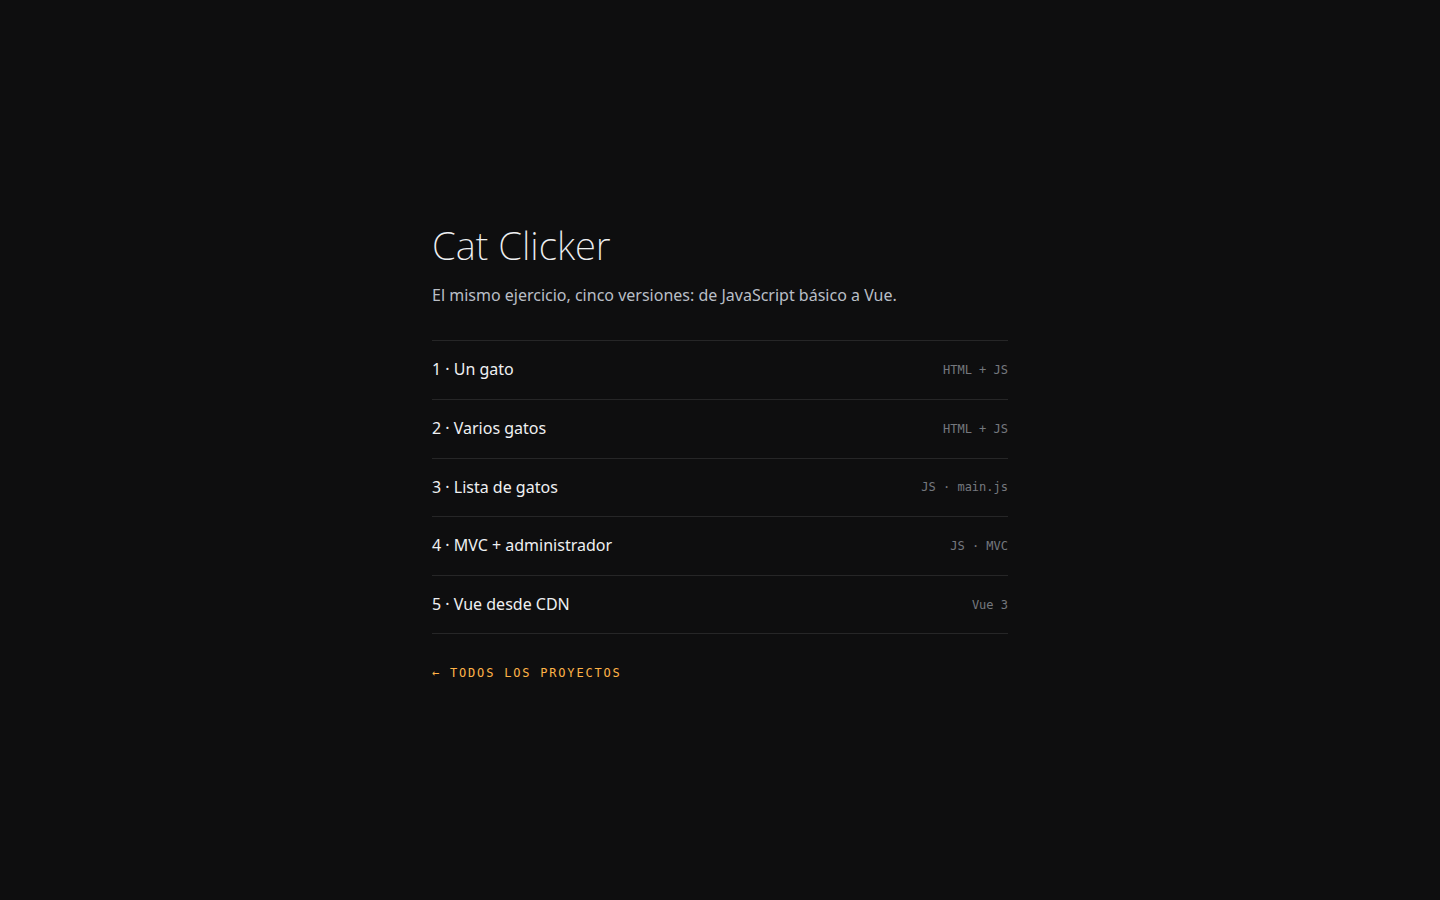
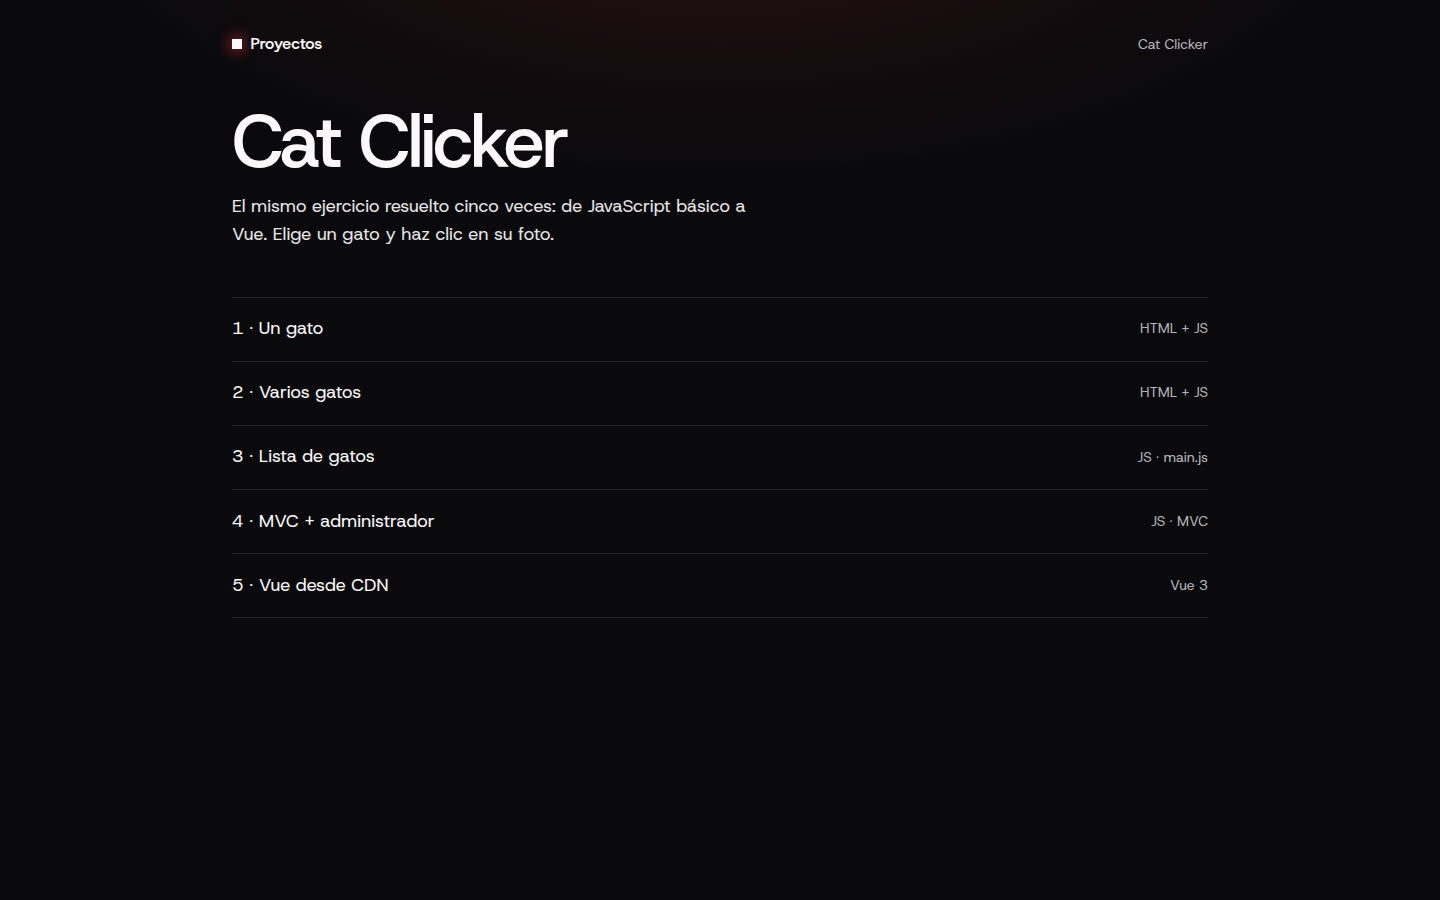
Índex del Cat Clicker amb el seu estil bàsic i captura nova

diff --git a/deploy/landing/cat-clicker.html b/deploy/landing/cat-clicker.html
@@ -4,33 +4,28 @@
 <meta charset="utf-8">
 <meta name="viewport" content="width=device-width,initial-scale=1">
 <title>Cat Clicker · versiones</title>
+<!-- estilo.css viene del repo catClicker (se publica en la misma carpeta) -->
+<link rel="stylesheet" href="estilo.css">
 <style>
-  :root { color-scheme: dark; }
-  body { margin: 0; min-height: 100vh; display: grid; place-items: center; background: #0e0e0f; color: #b9bec6; font: 16px/1.6 system-ui, sans-serif; }
-  main { width: min(36rem, 100% - 3rem); padding: 3rem 0; }
-  h1 { margin: 0; font-weight: 200; font-size: 2.4rem; color: #eef0f2; }
-  p { margin: .4rem 0 2rem; }
-  a { color: inherit; text-decoration: none; }
-  ol { list-style: none; margin: 0; padding: 0; border-top: 1px solid #ffffff1a; }
-  li a { display: flex; justify-content: space-between; gap: 1rem; padding: 1rem 0; border-bottom: 1px solid #ffffff1a; }
-  li a:hover strong { color: #ffb347; }
-  strong { color: #eef0f2; font-weight: 400; }
-  small { font: .75rem ui-monospace, monospace; opacity: .6; align-self: center; text-align: right; }
-  .volver { display: inline-block; margin-top: 2rem; font: .75rem ui-monospace, monospace; letter-spacing: .15em; text-transform: uppercase; color: #ffb347; }
+  .titular { font-size: clamp(3rem, 2.4rem + 3vw, 4.6rem); line-height: 0.98; letter-spacing: -0.04em; margin: 0 0 1rem; }
+  .entradeta { font-size: 1.125rem; max-width: 34rem; margin: 0 0 3rem; }
+  ol { list-style: none; padding: 0; margin: 0; border-top: 1px solid var(--linia); }
+  ol li { padding: 0; background: none; border: 0; border-bottom: 1px solid var(--linia); }
+  ol a { display: flex; justify-content: space-between; gap: 1rem; padding: 1.1rem 0; color: var(--text); text-decoration: none; font-size: 1.125rem; }
+  ol a:hover { padding-left: 0.5rem; }
+  ol small { color: var(--text-3); font-size: 0.875rem; align-self: center; }
 </style>
 </head>
 <body>
-<main>
-  <h1>Cat Clicker</h1>
-  <p>El mismo ejercicio, cinco versiones: de JavaScript básico a Vue.</p>
+  <header class="cap"><a href="/">Proyectos</a><span>Cat Clicker</span></header>
+  <h1 class="titular">Cat Clicker</h1>
+  <p class="entradeta">El mismo ejercicio resuelto cinco veces: de JavaScript básico a Vue. Elige un gato y haz clic en su foto.</p>
   <ol>
-    <li><a href="catclicker1/"><strong>1 · Un gato</strong><small>HTML + JS</small></a></li>
-    <li><a href="catclicker2/"><strong>2 · Varios gatos</strong><small>HTML + JS</small></a></li>
-    <li><a href="catclicker3/"><strong>3 · Lista de gatos</strong><small>JS · main.js</small></a></li>
-    <li><a href="catclicker4/"><strong>4 · MVC + administrador</strong><small>JS · MVC</small></a></li>
-    <li><a href="catClicker3-vue/"><strong>5 · Vue desde CDN</strong><small>Vue 3</small></a></li>
+    <li><a href="catclicker1/">1 · Un gato <small>HTML + JS</small></a></li>
+    <li><a href="catclicker2/">2 · Varios gatos <small>HTML + JS</small></a></li>
+    <li><a href="catclicker3/">3 · Lista de gatos <small>JS · main.js</small></a></li>
+    <li><a href="catclicker4/">4 · MVC + administrador <small>JS · MVC</small></a></li>
+    <li><a href="catClicker3-vue/">5 · Vue desde CDN <small>Vue 3</small></a></li>
   </ol>
-  <a class="volver" href="/">← Todos los proyectos</a>
-</main>
 </body>
 </html>
